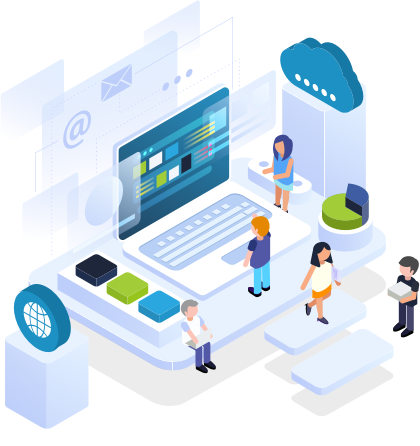
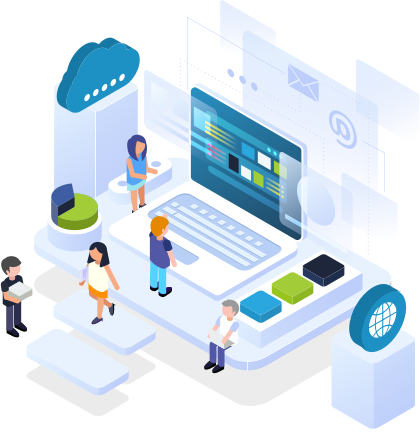
First responsive approach.

diff --git a/src/components/header/styles.js b/src/components/header/styles.js
@@ -1,6 +1,8 @@
 import styled from 'styled-components';
-// import { NavLink } from 'react-router-dom';
+import { NavLink } from 'react-router-dom';
 import WrapperSection from 'UIElements/WrapperSection/WrapperSection';
+
+const menuBreakPoint = '800px';
 
 export const HeaderWrapperSection = styled(WrapperSection)`  
   position: fixed;
@@ -8,27 +10,59 @@ export const HeaderWrapperSection = styled(WrapperSection)`
   background-color: ${({ scrollUp }) => (scrollUp ? 'initial' : '#fff')};
   transition-property: background-color;
   transition-duration: 0.5s;
+  
+  @media screen and (max-width: ${menuBreakPoint}){
+    padding-bottom: 1rem;
+  }
 `;
 
 export const HeaderDiv = styled.div`
   display: flex;
   justify-content: space-between;
   align-items: center;
-  padding: ${({ scrollUp }) => (scrollUp ? '3rem' : '1.5rem')} 3rem;
+  padding: ${({ scrollUp }) => (scrollUp ? '3rem' : '1rem')} 3rem;
   transition-property: padding;
   transition-duration: 0.5s;
+
+  @media screen and (max-width: ${menuBreakPoint}){
+    justify-content: center;
+    padding: 1rem;
+    img {
+      display: none;
+    }
+  }
 `;
 
 export const MenuNav = styled.nav`
   display: flex;
   justify-content: space-between;
   align-items: center;
-  max-width: 30rem;
   min-width: 10 rem;
   width: max-content;
+  .activeMenuItem {
+    border-bottom: ${({ theme }) => theme.palette.green} 2px solid;
+  }
+  @media screen and (max-width: ${menuBreakPoint}){
+    flex-direction: column;
+  }
 `;
 
 export const Link = styled.a`
+  text-decoration: none;
+  color: ${({ theme }) => theme.palette.text};
+  font-weight: 600;
+  margin: 0 2rem;
+  border-bottom: ${({ theme, isActive }) => (isActive ? `${theme.palette.green} 2px solid;` : 'initial')};
+  &:hover {
+    border-bottom: ${({ theme }) => theme.palette.blue} 2px solid;
+  }
+  
+  @media screen and (max-width: ${menuBreakPoint}){
+    margin: 1rem;
+  }
+`;
+
+export const Router = styled(NavLink)`
   text-decoration: none;
   color: ${({ theme }) => theme.palette.text};
   font-weight: 600;

diff --git a/src/components/header/Header.jsx b/src/components/header/Header.jsx
@@ -1,8 +1,7 @@
+/* eslint-disable jsx-a11y/anchor-is-valid */
 //  libraries
-import React from 'react';
-
-//  hooks
-import useScrollY from 'hooks/useScrollY';
+import React, { useState, useEffect } from 'react';
+import { NavLink } from 'react-router-dom';
 
 //  components
 import Button from 'UIElements/button/Button';
@@ -14,15 +13,33 @@ import {
 } from './styles';
 
 export default function Header() {
-  const scrollUp = useScrollY();
+  const [scrollUp, setScrollUp] = useState(true);
+
+  useEffect(() => {
+    const handleScroll = () => {
+      const pointY = window.scrollY;
+      const topScroll = pointY > 70;
+      if (topScroll) {
+        setScrollUp(false);
+      } else {
+        setScrollUp(true);
+      }
+    };
+    document.addEventListener('scroll', handleScroll);
+    return () => {
+      document.removeEventListener('scroll', handleScroll);
+    };
+  // eslint-disable-next-line react-hooks/exhaustive-deps
+  }, []);
 
   return (
     <HeaderWrapperSection scrollUp={scrollUp}>
       <HeaderDiv scrollUp={scrollUp}>
         <img src={logoFullColor} alt='logo wolox' width='171px' />
         <MenuNav>
-          <Link href='#start' className='menuItem' activeClassName='activeMenuItem'>Inicio</Link>
-          <Link href='#benefits' className='menuItem' activeClassName='activeMenuItem'>Beneficios</Link>
+          <Link href='#start' isActive={false}>Inicio</Link>
+          <Link href='#benefits' isActive={false}>Beneficios</Link>
+          <Link as={NavLink} activeClassName='activeMenuItem' exact to=''>Home</Link>
           <Button type='button'>Login</Button>
         </MenuNav>
       </HeaderDiv>

diff --git a/src/components/home/thirdSection/ThirdSection.jsx b/src/components/home/thirdSection/ThirdSection.jsx
@@ -1,5 +1,8 @@
 //  libraries
-import React from 'react';
+import React, { Fragment, useRef } from 'react';
+
+//  hooks
+import useScrollY from 'hooks/useScrollY';
 
 //  components
 import Typography from 'UIElements/typography/Typography';
@@ -9,16 +12,23 @@ import benefitsItems from 'constants/benefitsItems';
 import { BenefitsWrapperSection, BenefitsListContainerDiv, Divider } from './styles';
 
 export default function ThirdSection() {
+  const sectionRef = useRef(null);
+  useScrollY('benefits', sectionRef);
   const emoji = ';)';
+
   return (
-    <BenefitsWrapperSection>
-      <div className='benefits-container' id='benefits'>
+    <BenefitsWrapperSection ref={sectionRef} id='benefits'>
+      <div className='benefits-container'>
         <Typography variant='h5' weight='500'>Entre los beneficios que ofrecemos se encuentran
           <Typography color='blue' variant='span'> {emoji}</Typography>
         </Typography>
         <BenefitsListContainerDiv cols={benefitsItems.length}>
-          {benefitsItems.map(({ name, image }) => <img src={image} alt={name} key={`image-${name}`} />)}
-          {benefitsItems.map(({ name }) => <Typography variant='p' key={`name-${name}`}>{name}</Typography>)}
+          {benefitsItems.map(({ name, image }) => (
+            <Fragment key={name}>
+              <img src={image} alt={name} key={`image-${name}`} />
+              <Typography variant='p' key={`name-${name}`}>{name}</Typography>
+            </Fragment>
+          ))}
         </BenefitsListContainerDiv>
         <Divider />
       </div>

diff --git a/src/components/home/firstSection/styles.js b/src/components/home/firstSection/styles.js
@@ -9,8 +9,10 @@ import bgIlustraHero from 'assets/Img Hero/Ic_ilustra_Hero.png';
 import WrapperSection from 'UIElements/WrapperSection/WrapperSection';
 
 export const WelcomeWrapperSection = styled(WrapperSection)`
-  background: url(${bgImage}) no-repeat center center;
-  background-size: contain;
+  background-image: url(${bgIlustraHero}), url(${bgImage});
+  background-repeat: no-repeat;
+  background-position: 55vw 80%,center center;
+  background-size: 29vw 29vw, contain;
   height: 88vh;
   max-height: 45rem;
   margin-bottom: 4rem;
@@ -19,6 +21,16 @@ export const WelcomeWrapperSection = styled(WrapperSection)`
     display: flex;
     justify-content: space-between;
     align-items: center;
+  }
+
+  @media screen and (max-width: 500px) {
+    background-position: 47vw 80%,center center;
+    background-size: 45vw 45vw, contain;
+    margin-bottom: 0;
+  }
+
+  @media screen and (min-width: 1400px) {
+    background-size: 22vw 22vw, contain;
   }
 `;
 
@@ -30,14 +42,4 @@ export const H1 = styled.h1`
   & .green {
     color: ${({ theme }) => theme.palette.green};
   }
-`;
-
-export const ImageDiv = styled.div`
-  background: url(${bgIlustraHero}) no-repeat center center;
-  background-size: cover;
-  width: 400px;
-  height: 400px;
-  transform: scaleX(-1);
-  margin-right: 6rem;
-  margin-top: 6rem;
 `;

diff --git a/src/hooks/useScrollY.js b/src/hooks/useScrollY.js
@@ -1,27 +1,25 @@
-import { useState, useEffect } from 'react';
+import { useEffect } from 'react';
+import { useHistory } from 'react-router-dom';
 
-export default function useScrollY(htmlElementId, topValue = 70) {
-  const [scrollUp, setScrollUp] = useState(true);
-
+export default function useScrollY(htmlElementId, sectionRef, topValue = 70) {
+  const history = useHistory();
   useEffect(() => {
     const handleScroll = () => {
-      const pointY = window.scrollY;
-      const topScroll = pointY > topValue;
-      if (topScroll) {
-        setScrollUp(false);
-      } else {
-        setScrollUp(true);
-      }
-      if (htmlElementId && pointY > 0 && pointY < 10) {
-        window.history.pushState({ page_id: htmlElementId || 1 }, '', htmlElementId);
+      const { y } = sectionRef.current.getBoundingClientRect();
+      if (y > -topValue && y < topValue) {
+        history.push({
+          pathname: '/',
+          state: `#${htmlElementId}`,
+        });
       }
     };
-    document.addEventListener('scroll', handleScroll);
+
+    if (sectionRef.current) {
+      document.addEventListener('scroll', handleScroll);
+    }
     return () => {
       document.removeEventListener('scroll', handleScroll);
     };
   // eslint-disable-next-line react-hooks/exhaustive-deps
   }, []);
-
-  return scrollUp;
 }

diff --git a/src/components/home/thirdSection/styles.js b/src/components/home/thirdSection/styles.js
@@ -13,12 +13,28 @@ export const BenefitsWrapperSection = styled(WrapperSection)`
 export const BenefitsListContainerDiv = styled.div`
 display: grid;
 grid-template-columns: repeat(${({ cols = 1 }) => cols}, 1fr);
-grid-template-rows: 2;
+grid-template-rows: repeat(2, 1fr);
+grid-auto-flow: column;
 justify-items: center;
 align-items: start;
 text-align: center;
 width: 100%;
 column-gap: 2rem;
+
+@media screen and (max-width: 1155px){
+  grid-template-columns: repeat(${({ cols = 1 }) => Math.floor(cols / 2)}, 1fr);
+  grid-template-rows: repeat(4, 1fr);
+}
+
+@media screen and (max-width: 710px){
+  grid-template-columns: repeat(${({ cols = 1 }) => Math.floor(cols / 3)}, 1fr);
+  grid-template-rows: repeat(6, 1fr);
+}
+
+@media screen and (max-width: 500px){
+  grid-template-columns: repeat(${({ cols = 1 }) => Math.floor(cols / 4)}, 1fr);
+  grid-template-rows: repeat(${({ cols = 1 }) => cols * 2}, 1fr);
+}
 `;
 
 export const Divider = styled.hr`

diff --git a/src/UIElements/WrapperSection/WrapperSection.jsx b/src/UIElements/WrapperSection/WrapperSection.jsx
@@ -1,25 +1,29 @@
 //  libraries
-import React from 'react';
+import React, { forwardRef } from 'react';
 import PropTypes from 'prop-types';
 
 // styles
 import ContainerSection from './styles';
 
-export default function WrapperSection({ children, className, variant }) {
-  return (
-    <ContainerSection className={className} as={variant}>
-      {children}
-    </ContainerSection>
-  );
-}
+const WrapperSection = forwardRef(({
+  children, className, variant, id,
+}, ref) => (
+  <ContainerSection className={className} as={variant} ref={ref} id={id}>
+    {children}
+  </ContainerSection>
+));
+
+export default WrapperSection;
 
 WrapperSection.propTypes = {
   children: PropTypes.node.isRequired,
   className: PropTypes.string,
   variant: PropTypes.string,
+  id: PropTypes.string,
 };
 
 WrapperSection.defaultProps = {
-  className: null,
   variant: 'section',
+  className: null,
+  id: null,
 };

diff --git a/src/components/home/firstSection/FirstSection.jsx b/src/components/home/firstSection/FirstSection.jsx
@@ -1,17 +1,21 @@
 //  libraries
-import React from 'react';
+import React, { useRef } from 'react';
+
+//  hooks
+import useScrollY from 'hooks/useScrollY';
 
 //  styles
-import { WelcomeWrapperSection, H1, ImageDiv } from './styles';
+import { WelcomeWrapperSection, H1 } from './styles';
 
 export default function FirstSection() {
+  const sectionRef = useRef(null);
+  useScrollY('start', sectionRef);
   return (
-    <WelcomeWrapperSection>
-      <div className='welcome-container' id='start'>
+    <WelcomeWrapperSection id='start' ref={sectionRef}>
+      <div className='welcome-container'>
         <H1>
           Bienvenido a tu <br /> <span className='bold'>Entrevista Técnica</span> en <br /><span className='bold green'>Wolox</span>
         </H1>
-        <ImageDiv />
       </div>
     </WelcomeWrapperSection>
   );

diff --git a/src/components/home/secondSection/styles.js b/src/components/home/secondSection/styles.js
@@ -20,6 +20,10 @@ export const WorkingWrapperSection = styled(MaxDivWrapperSection)`
     & .bigTitle {
       font-size: 54px;
     }
+
+    @media screen and (max-width: 900px) {
+      flex-direction: column;
+    }
   }
 `;
 
@@ -35,4 +39,8 @@ export const Box = styled.div`
   justify-content: center;
   align-items: center;
   text-align: center;
+
+  @media screen and (max-width: 900px) {
+    width: initial;
+  }
 `;
